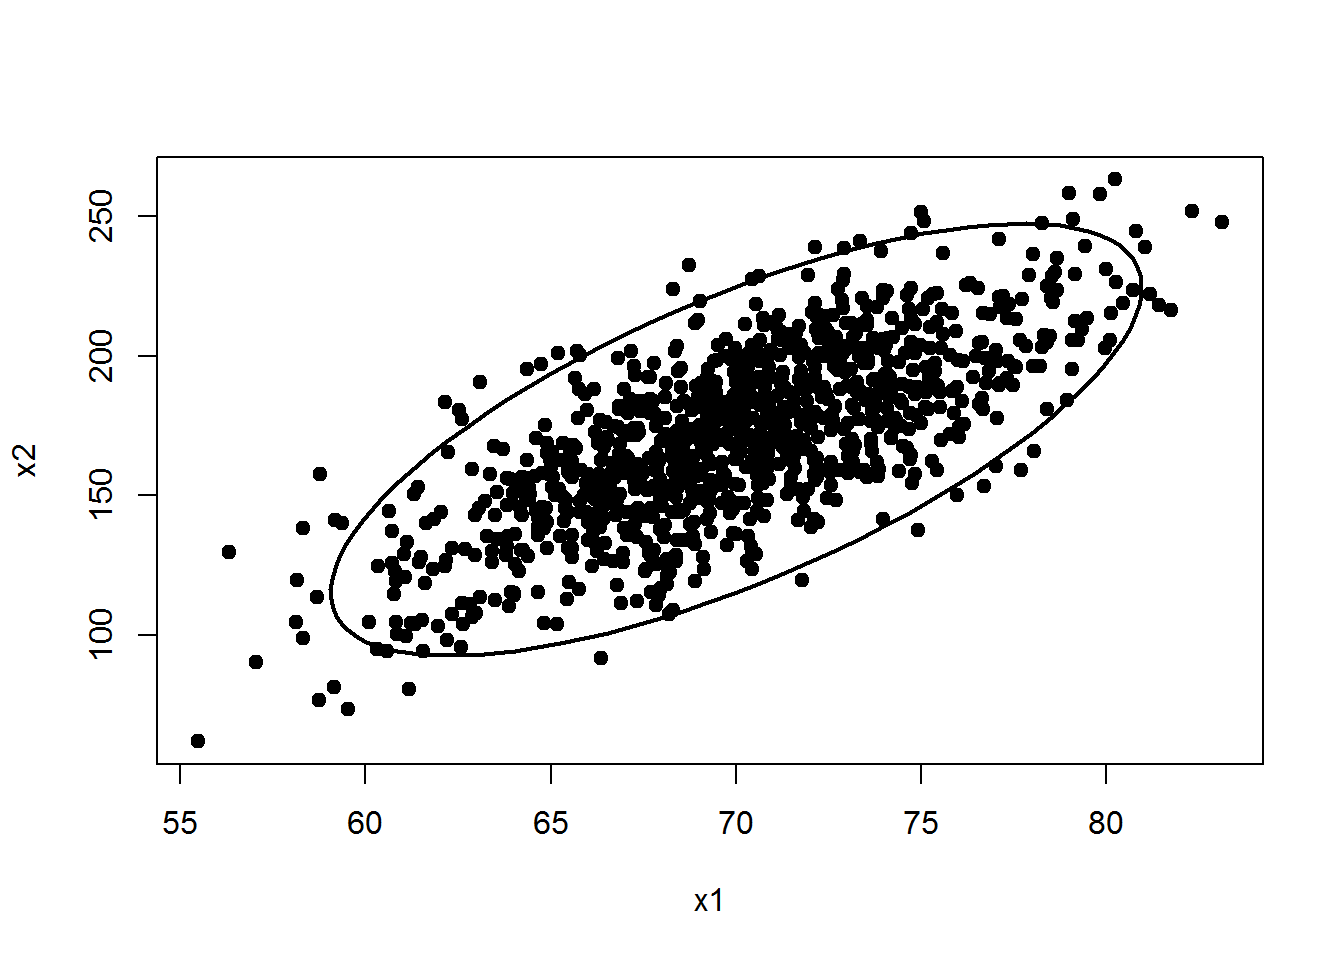
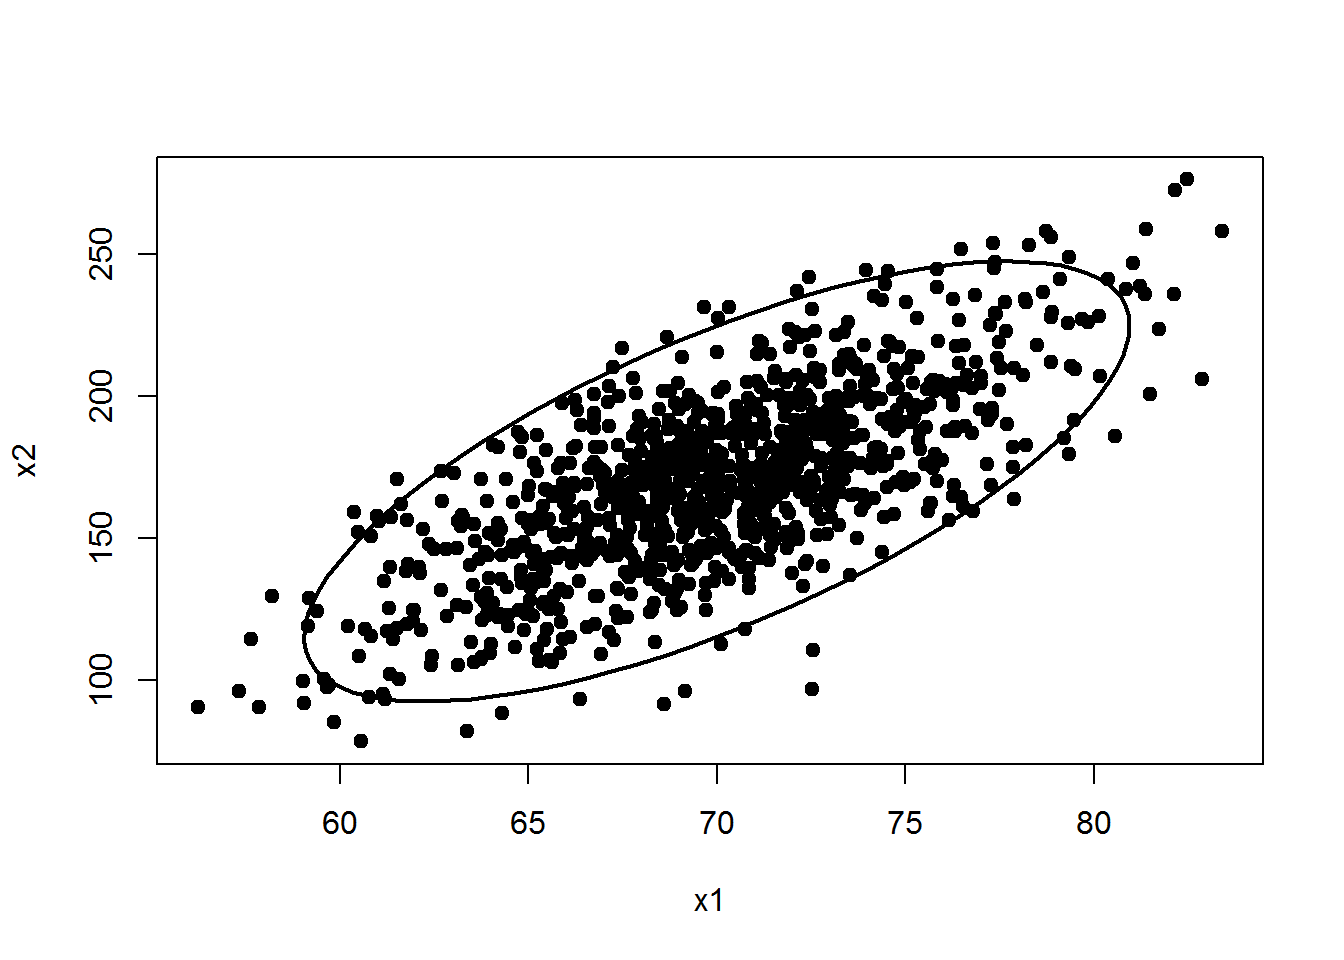
mejorado

diff --git a/Publicaciones/Multivariado/Elipse de confianza/Elipse_de_confianza.md b/Publicaciones/Multivariado/Elipse de confianza/Elipse_de_confianza.md
@@ -49,12 +49,12 @@ require(MASS)
 dt <- mvrnorm(n=1000, mu=centro, Sigma)
 head(dt)  # para ver las primeras lineas
 ##          [,1]     [,2]
-## [1,] 74.61053 221.7393
-## [2,] 77.31307 191.9773
-## [3,] 72.14056 218.8369
-## [4,] 65.57305 162.3402
-## [5,] 73.10978 195.3081
-## [6,] 69.25958 149.7200
+## [1,] 72.57532 209.6547
+## [2,] 71.34494 163.8081
+## [3,] 70.35195 167.9928
+## [4,] 72.97807 199.0353
+## [5,] 72.76288 163.1691
+## [6,] 62.11650 138.5495
 ```
 
 Para crear el diagrama de dispersión y superponer la elipse usamos el siguiente código.
@@ -71,10 +71,10 @@ Para determinar el porcentaje de puntos que están dentro de la elipse podemos u
 ``` r
 d <- mahalanobis(x=dt, center=centro, cov=Sigma)
 mean(d <= qchisq(p=0.95, df=2))
-## [1] 0.944
+## [1] 0.938
 ```
 
-Vemos que 94.4% de los puntos están dentro lo cual es un valor muy cercano al valor nominal de la elipse de 95%.
+Vemos que 93.8% de los puntos están dentro lo cual es un valor muy cercano al valor nominal de la elipse de 95%.
 
 Por último vamos a dibujar los puntos que están por dentro de la elipse con color azul y los que están por fuera con color rojo.
 
@@ -86,4 +86,20 @@ lines(p, lwd=2)
 
 <img src="MyFigs/Figure-elipse3-1.png" width="672" />
 
-<strong>Cuidado!</strong> Se debe verificar que la muestra aleatoria provenga de una población normal multivariada. Aquí vamos a asumir que este supuesto se cumple.
+``` r
+stop('This should break!')
+```
+
+**Error** in eval(expr, envir, enclos): This should break!
+
+``` r
+warning('Watch out!')
+```
+
+**Warning** Watch out!
+
+``` r
+message('This is a message for you')
+```
+
+This is a message for you
